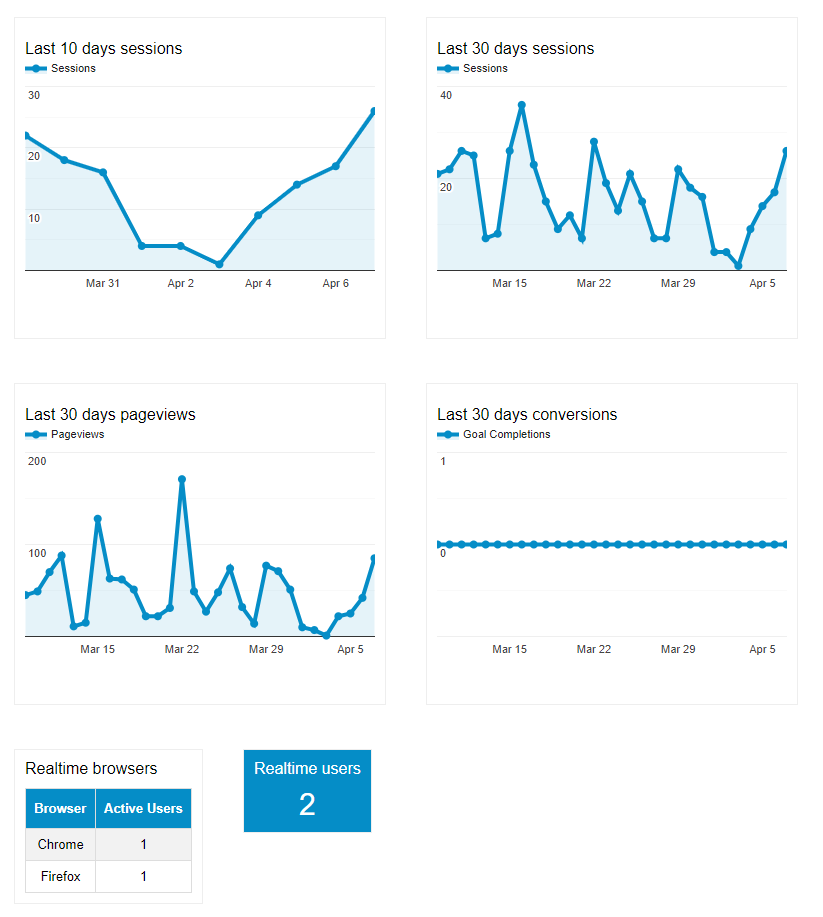
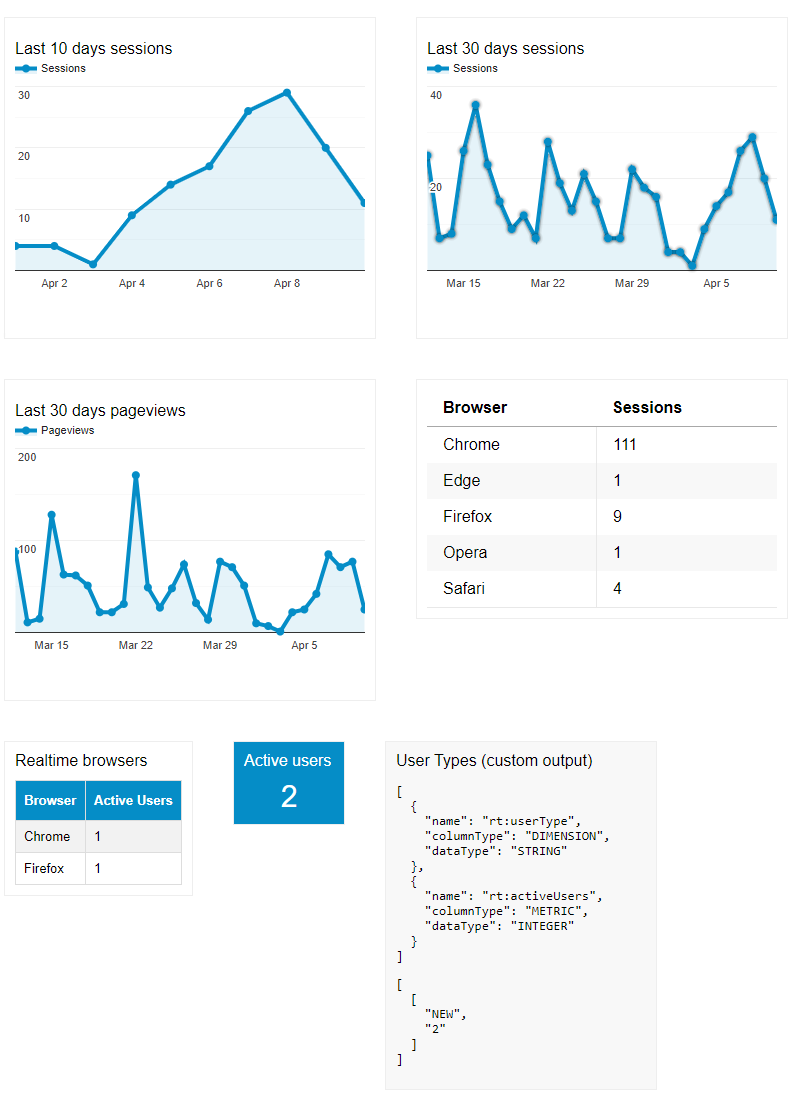
Improved demo with custom output example

diff --git a/src/GoogleData.js b/src/GoogleData.js
@@ -17,9 +17,9 @@ export class GoogleDataRT extends React.Component {
     isError: false,
     isLoading: true,
     visualization: null,
-    classVariation: null
+    deltaClass: null
   };
-  
+
   pausePolling = this.pausePolling.bind(this);
   resumePolling = this.resumePolling.bind(this);
   stopPolling = this.stopPolling.bind(this);
@@ -80,26 +80,26 @@ export class GoogleDataRT extends React.Component {
         const visualization = this.dataToVisualization(realTime);
         const value = realTime.totalResults ? +realTime.rows[0][0] : 0;
 
-        let classVariation;
+        let deltaClass;
 
         // Check if the response has multiples columns or only one
         if ((realTime.columnHeaders.length === 1)) {
 
           const delta = value - (this.lastValue | 0);
-         
+
           // Add CSS animation to visually show the when the counter goes up and down
-          classVariation = delta > 0 ? "widgetAnalytics_isIncreasing" : "widgetAnalytics_isDecreasing";
-          
-          let timeout; 
+          deltaClass = delta > 0 ? "widgetAnalytics_isIncreasing" : "widgetAnalytics_isDecreasing";
+
+          let timeout;
           clearTimeout(timeout);
           timeout = setTimeout(() => {
-            this.setState({ classVariation: null })
+            this.setState({ deltaClass: null })
           }, 3000);
 
           this.lastValue = value;
         }
 
-        this.setState({ visualization, classVariation });
+        this.setState({ visualization, deltaClass });
 
       })
 
@@ -209,7 +209,7 @@ export class GoogleDataRT extends React.Component {
     if (this.state.isError) classes.push("widgetAnalytics_onError");
     if (this.state.isLoading) classes.push("widgetAnalytics_onLoading");
     if (this.props.className) classes.push(this.props.className);
-    if (this.state.classVariation) classes.push(this.state.classVariation);
+    if (this.state.deltaClass) classes.push(this.state.deltaClass);
 
     return (
       <div
@@ -219,7 +219,9 @@ export class GoogleDataRT extends React.Component {
         <div className="widgetAnalytics_widgetRealTimeContainer">
           {
             this.props.config.options && this.props.config.options.title &&
-            <div className="widgetAnalytics_realTimeTitle">{this.props.config.options.title}</div>
+            <div className="widgetAnalytics_realTimeTitle">
+              {this.props.config.options.title}
+            </div>
           }
           <div className="widgetAnalytics_realTimeValue">
             {this.state.visualization}
@@ -227,14 +229,21 @@ export class GoogleDataRT extends React.Component {
         </div>
         {
           this.state.isLoading &&
-          <div className="widgetAnalytics_loader">{this.props.loader !== undefined ? this.props.loader : DEFAULT_LOADING}</div>
+          <div className="widgetAnalytics_loader">
+            {this.props.loader !== undefined ? this.props.loader : DEFAULT_LOADING}
+          </div>
         }
         {
           this.state.isError &&
-          <div title={(this.props.errors) ? this.state.isError : ''} className="widgetAnalytics_errorContainer">
+          <div
+            title={(this.props.errors) ? this.state.isError : ''}
+            className="widgetAnalytics_errorContainer"
+          >
             {
               this.props.errors &&
-              <div className="widgetAnalytics_errorMsg">{this.state.isError}</div>
+              <div className="widgetAnalytics_errorMsg">
+                {this.state.isError}
+              </div>
             }
             {DEFAULT_ERROR}
           </div>
@@ -258,21 +267,19 @@ export class GoogleDataChart extends React.Component {
 
   componentDidUpdate(prevProps, prevState) {
 
-    // Prevent double execution on load
     if (JSON.stringify(this.props.views) !== JSON.stringify(prevProps.views)) {
-      this.updateView();
-    }
 
-    if (JSON.stringify(this.props.views) !== JSON.stringify(prevProps.views)) {
+      this.updateView();
 
       if (!prevState.isLoading) {
         let height = this.chartNode.clientHeight;
         this.chartNode.style.height = height + 'px';
-      } else {
+      } else if (!this.state.isLoading) {
         this.chartNode.style.height = '';
       }
 
     }
+
   };
 
   componentWillUnmount() {
@@ -334,14 +341,21 @@ export class GoogleDataChart extends React.Component {
         />
         {
           this.state.isLoading &&
-          <div className="widgetAnalytics_loader">{this.props.loader !== undefined ? this.props.loader : DEFAULT_LOADING}</div>
+          <div className="widgetAnalytics_loader">
+            {this.props.loader !== undefined ? this.props.loader : DEFAULT_LOADING}
+          </div>
         }
         {
           this.state.isError &&
-          <div title={(this.props.errors) ? this.state.isError : ''} className="widgetAnalytics_errorContainer">
+          <div
+            title={(this.props.errors) ? this.state.isError : ''}
+            className="widgetAnalytics_errorContainer"
+          >
             {
               this.props.errors &&
-              <div className="widgetAnalytics_errorMsg">{this.state.isError}</div>
+              <div className="widgetAnalytics_errorMsg">
+                {this.state.isError}
+              </div>
             }
             {DEFAULT_ERROR}
           </div>

diff --git a/demo/src/index.js b/demo/src/index.js
@@ -85,14 +85,32 @@ const REAL_TIME = [
   },
   {
     pollingInterval: 10,
-    options: { 
+    options: {
       title: "Active users"
     },
     query: {
       metrics: 'rt:activeUsers'
     }
+  },
+  {
+    pollingInterval: 10,
+    options: {
+      title: "User Types (custom output)"
+    },
+    query: {
+      metrics: 'rt:activeUsers',
+      dimensions: 'rt:userType'
+    }
   }
 ]
+const customOutput = (realTimeData) => {
+  return (
+    <div>
+      <pre>{(realTimeData.columnHeaders) ? JSON.stringify(realTimeData.columnHeaders,  undefined, 2) : 'No results'}</pre>
+      <pre>{(realTimeData.rows) ? JSON.stringify(realTimeData.rows, undefined, 2) : 'No results'}</pre>
+    </div>
+  )
+}
 
 class Example extends React.Component {
   state = {
@@ -110,7 +128,7 @@ class Example extends React.Component {
       .then(({ token }) => {
         this.setState({ token }); // TODO: handle errors
       })
-      .catch( err => {
+      .catch(err => {
         console.error(err)
       })
   }
@@ -124,7 +142,7 @@ class Example extends React.Component {
     return (
       <div>
         <GithubCorner href="https://github.com/revolunet/react-analytics-widget" />
-        <GoogleProvider accessToken={this.state.token}> 
+        <GoogleProvider accessToken={this.state.token}>
           <div style={{ margin: '20px 0' }}>
             Define your view ID :
             <input type="text" onChange={e => this.setState({ ids: e.target.value })} value={this.state.ids} />
@@ -132,11 +150,12 @@ class Example extends React.Component {
             <br />
           </div>
           <div>
-            {CHARTS.map((c, i) => <GoogleDataChart style={{ verticalAlign: 'top', display: 'inline-block', width: 350, margin: 20, border: '1px solid #eee', padding: 10 }} key={i} views={views} config={c} errors={true}/>)}
+            {CHARTS.map((c, i) => <GoogleDataChart style={{ verticalAlign: 'top', display: 'inline-block', width: 350, margin: 20, border: '1px solid #eee', padding: 10 }} key={i} views={views} config={c} errors={true} />)}
           </div>
           <div>
-            <GoogleDataRT style={{ verticalAlign: 'top', display: 'inline-block', margin: 20, border: '1px solid #eee', padding: 10 }} views={views} config={REAL_TIME[0]} errors={true}/>
-            <GoogleDataRT style={{ backgroundColor: '#058dc7', color: '#fff', verticalAlign: 'top', display: 'inline-block', margin: 20, border: '1px solid #eee', padding: 10 }} views={views} config={REAL_TIME[1]} errors={true}/>
+            <GoogleDataRT style={{ verticalAlign: 'top', display: 'inline-block', margin: 20, border: '1px solid #eee', padding: 10 }} views={views} config={REAL_TIME[0]} errors={true} />
+            <GoogleDataRT style={{ textAlign: 'center', backgroundColor: '#058dc7', color: '#fff', verticalAlign: 'top', display: 'inline-block', margin: 20, border: '1px solid #eee', padding: 10 }} views={views} config={REAL_TIME[1]} errors={true} />
+            <GoogleDataRT customOutput={customOutput} style={{ backgroundColor: '#f8f8f8', width: 250, overflow: 'hidden', wordBreak: 'break-all', verticalAlign: 'top', display: 'inline-block', margin: 20, border: '1px solid #eee', padding: 10 }} views={views} config={REAL_TIME[2]} errors={true} />
           </div>
         </GoogleProvider>
       </div>

diff --git a/src/styles/src/style.sass b/src/styles/src/style.sass
@@ -15,9 +15,7 @@ $increasing-color: rgba(0, 128, 0, 0.5)
   font-size: 13px
 
   .widgetAnalytics_realTimeValue
-    text-align: center
     font-weight: 300
-    white-space: nowrap
 
     .widgetAnalytics_realTimeValueNumber
       font-size: 30px

diff --git a/README.md b/README.md
@@ -139,8 +139,12 @@ const errors = true;
  * @returns {Component}
  */
  const customOutput = (realTimeData) => { 
+   
+  // console.log(realTimeData);
+
   return (
     <div className="my-custom-visualization">
+    // {}
     ...
     </div>
   ) 
